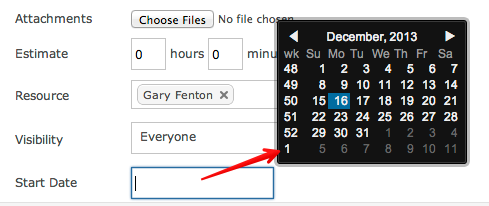
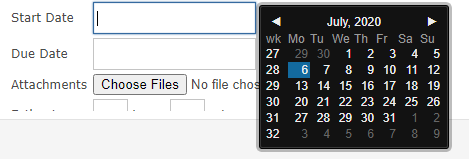
G7 Improvements
Update the description and images for creating items

diff --git a/creating-items/index.html b/creating-items/index.html
@@ -4,17 +4,17 @@ title: Creating Items
 ---
 <h1>Creating Items</h1>
 
-<p>Depending on your permissions, you can create new items in two ways. The first and most obvious method is to click on the plus sign located top right of every screen.</p>
+<p>Depending on your permissions, you can create new items in different ways. The first and most obvious method is to click on the plus sign located top right of every screen.</p>
 <p><img src="plus.png" /></p>
 
 <p>You will be presented with a data entry form that requires completion. Selecting the Project or the Type can dynamically change the fields you are required to provide.</p>
 <p>If on the Project Template the Screens definition of the item type you are creating makes a field mandatory, it will appear on the form in bold</p>
-<p>Default values, set in Project Settings, will appear on the form. Gemini can do things like default Start Dates using the meta value "TODAY" and Due Date using "TODAY+14" etc.</p>
 <p><img src="single.png" /></p>
 
-<h2>Missing Fields</h2>
-<p>Any missing, mandatory fields will be highlighted and will require input before the item can be created.</p>
-<p><img src="missing-field.png" /></p>
+<p>If you use Gemini's Organizations feature, every item you create will belong to an Organization. If you belong to a single Organization you will not see the field or be prompted for a value. Users who belong to multiple Organizations must select the Organization they want to create an item for.</p>
+<p><img src="organizations.png" /></p>
+<p>Users who belong to multiple Organizations will be able to set their default Organization on their User Profile.</p>
+<p><img src="organizations_2.png" /></p>
 
 <h2>Rich Text Fields</h2>
 <p>Certain fields allow for rich text content, and Gemini has a Rich Text Editor. Gemini's Rich Text Editor can use "Canned Comments" for rapid entry of replies and descriptions</p>
@@ -24,10 +24,27 @@ title: Creating Items
 <p>Date fields have calendar controls to make selecting dates simple.</p>
 <p><img src="date-picker.png" /></p>
 
+<h2>Missing Fields</h2>
+<p>Any missing, mandatory fields will be highlighted and will require input before the item can be created.</p>
+<p><img src="missing-field.png" /></p>
+
+<h2>Smart Data Capture and Management</h2>
+<p>Default values, set in Project Settings, will appear on the form. Gemini can do things like default Start Dates using the meta value "TODAY" and Due Date using "TODAY+14" etc.</p>
+<p>Gemini lets you create sophisticated data entry rules that must be met for an item to be created. If your conditions aren't met (e.g High Priority but no Resource Assigned) you can veto creation with a message to the user.</p>
+<p>Gemini's Rules & Actions can also run after data entry, on edit events. Gemini's SLA functionality continually assesses items. It can change data values, escalating status/priotity etc. and send out emails and alerts.</p>
+
+<h2>Alternative Methods</h2>
+<p>If you want a quick way to enter basic details of items that have a hierarchical dependency (say during a planning meeting) you can use Gemini's Quick Entry.</p>
+<p>You can use Gemini's Excel Import functionality to bulk upload a number of items, particularly items from external sources.</p>
+
 <div class="well well-small related-box">
     <span class="title">Related</span>
     <ul>
-        <li><a href="/setting-project-defaults">Setting Project Defaults</a></li>
+        <li><a href="/organization-permissions">Using Organizations</a></li>
+        <li><a href="/rules-actions-sla">Smart Data - Rules and Actions</a></li>
+        <li><a href="/setting-project-defaults">Smart Data - Defaulting values</a></li>
+        <li><a href="/quick-entry">Alternative methods - Quick Entry</a></li>
+        <li><a href="/importing-existing-data">Alternative methods - Excel Import</a></li>
         <li><a href="/setting-up-canned-responses">Setting up Canned Responses</a></li>
         <li><a href="/editing-items">Editing Items</a></li>
         <li><a href="/deleting-items">Deleting Items</a></li>
